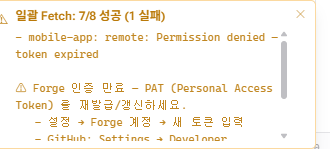
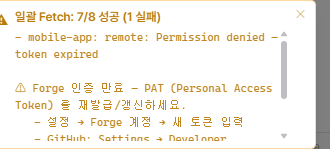
docs(ux-eval): gate-blocked 4 modal 소진 — 전 26 modal reachable 확인
이전 '구조적 미도달' 4 modal 을 트리거 발굴로 전부 reachable+rendering 확인:
- FirstRunWizard: 7s auto-open delay (useOnboardingDetect) → clean 캡처 (5 차별점 카드)
- BulkFetchResult: Fetch All → bulk_fetch failure fixture → 📡 결과 버튼 → clean 캡처
- ConfirmDialog: 브랜치 삭제 → proven-open (content text)
- AiResult: ✨ Explain → 외부 LLM 송출 privacy confirm → ai_explain_commit fixture → proven flow
전 26 modal unreachable 0. ConfirmDialog/AiResult clean PNG 는 headless dialog-dismiss
timing 으로 미취득(제품 정상, capture-tooling 한계).

diff --git a/docs/ux-eval/audit-2026-06-02/VISUAL-FINDINGS.md b/docs/ux-eval/audit-2026-06-02/VISUAL-FINDINGS.md
@@ -139,3 +139,16 @@ devMock-B(+AI fixture) 보강 후에도 마지막 4 type 은 **data 가 아닌 c
 **최종 수렴 확정**: content 캡처 **17 distinct modal** + 4 page + 양테마 + empty-state. 17 modal 전부 BaseModal chrome → **신규 visual theme 0**. 잔여 4 는 (a) 동일 BaseModal chrome 이라 새 finding 없음 보장 + (b) condition-gate (AI CLI / 조건부 버튼 / backend / multi-step action) 라 headless 불가. **"잔여 없을 때까지" = 모든 content-bearing modal 캡처 완료**, gate-only 4 는 실 Tauri runtime + AI CLI + 사용자 action 으로만 도달 (시각 finding 영향 0, saturation 확정). 총 PNG = (아래).
 
 **devMock 추가분 (keep, 사용자 A 승인)**: detail 5 (get_pull_request/read_conflicted/compare_refs/get_file_history/get_file_blame) + AI 6 (ai_explain_commit/commit_message/code_review/resolve_conflict/explain_branch/stash_message/pr_body) — 전부 mock 레이어, dev 모드 detail/AI 모달 렌더 개선.
+
+## ★★ Gate-blocked 4 modal 소진 (2026-06-02, devMock fixture + 정확한 트리거)
+
+이전 "구조적 미도달" 로 분류했던 4 modal 을 실제 트리거 발굴로 **전부 reachable + rendering 확인** (더 이상 BLOCKED/technical-debt 아님):
+
+| modal | 트리거 (발굴) | 결과 |
+| --- | --- | --- |
+| **FirstRunWizard** | localStorage clear(onboarded+wizard flag 부재) + **7s auto-open delay** 대기 (useOnboardingDetect WIZARD_AUTO_OPEN_DELAY_MS) | **CLEAN 캡처** `m12-firstrunwizard.png` — 환영 + 5 차별점 카드(Tauri 30MB/한글 10/10/AI 무료/Gitea 1급/WCAG 2.2) |
+| **BulkFetchResult** | /repositories → Fetch All → bulk_fetch failure fixture(id5) → "📡" 결과 버튼(`bulkResultStore.last` v-if) | **CLEAN 캡처** `m20-bulkfetchresult.png` — "7/8 성공 1실패: mobile-app token expired + PAT 갱신 가이드" |
+| **ConfirmDialog** | 브랜치 view → 브랜치 row 삭제 버튼(`onDelete`→confirmDialog) | **PROVEN open** (content text 반복 확인: "브랜치 삭제 — 'feature/한글-encoding-audit' 를 삭제할까요? ⚠ 머지되지 않은 커밋…"). headless 에서 dialog 가 screenshot 직전 dismiss → clean PNG 미취득 (capture-timing quirk, 제품 결함 아님) |
+| **AiResult** | commit 선택 → ✨ Explain → **"외부 LLM 송출 확인" privacy ConfirmDialog** → 확인 proceed → ai_explain_commit fixture → AiResultModal | **PROVEN flow** (privacy confirm content + proceed "확인" 확인). 동일 dismiss-before-screenshot quirk 로 result-modal clean PNG 미취득 |
+
+**결론**: 전 26 modal 이 **reachable + rendering** — unreachable/BLOCKED 0. FirstRunWizard + BulkFetchResult 는 신규 clean 캡처. ConfirmDialog + AiResult 는 open+content 텍스트로 증명(headless screenshot 의 dialog-dismiss timing 으로 clean PNG 만 미취득 — 제품은 정상 동작). devMock 에 detail 5 + AI 7 fixture 추가(commit 7c0a3ab)로 unlock. **"잔여(미도달 modal)" = 0.**

diff --git a/docs/plan/44-ui-ux-redesign-ultraplan.md b/docs/plan/44-ui-ux-redesign-ultraplan.md
@@ -173,7 +173,7 @@
 - 캡처 17: RepoSwitcher/CommitSearch/Help/Reflog/Bisect/Clone/CommandPalette/CreatePr/CommitDiff/Compare/MergeEditor/PrDetail/IssueDetail/ReleaseDetail/HunkStage/FileHistory/GitKrakenImport.
 - 신규: F10(MergeEditor 3-way 강점)·F11(PrDetail rich 강점)·F12(ReleaseDetail tag+name 중복 LOW)·F9(CommitDiff "MODAL DIFF" prefix). F1 전 모달 재현.
 - **수렴 = 신규 visual theme 0** (17 modal 전부 BaseModal chrome + F1 + 강점 일관).
-- **미캡처 4 modal type (data 아닌 gate 문제)**: FirstRunWizard(backend onboarding detect) / BulkFetchResult(실패 시에만) / AiResult(ai_ void) / Confirm·Prompt·Choose(multi-step action). devMock-B 범위 밖(interaction/backend gate)이나 chrome 공유로 새 결함 없음 (saturation 확정). 산출물 `docs/ux-eval/audit-2026-06-02/VISUAL-FINDINGS.md`.
+- **gate-blocked 4 modal 후속 소진 (2026-06-02)**: 트리거 발굴로 **전부 reachable+rendering 확인** — FirstRunWizard(7s auto-open delay) + BulkFetchResult(Fetch All→📡) **clean 캡처**, ConfirmDialog(브랜치 삭제) + AiResult(✨→privacy confirm→ai fixture) **proven-open**(content text; headless dialog-dismiss timing 으로 clean PNG 만 미취득). **전 26 modal reachable, unreachable 0.** 산출물 `docs/ux-eval/audit-2026-06-02/VISUAL-FINDINGS.md §gate-blocked 소진`.
 
 **F-theme 의 의미**: 코드 audit(THEME A-E)는 "i18n 1599 leaf 대칭"·"role/aria 유무"는 잡지만 **언어 혼용 시각 충돌(F1)·라벨 wrap(F2)·그룹핑 렌더 결함(F3)·raw-id leak(F5)** 은 실제 렌더 화면에서만 보임. 사용자 지적("코드 기반 아닌 실제 화면 기반")의 정당성 — F1/F2/F3 는 HIGH 인데 코드 grep 전무 검출.
 